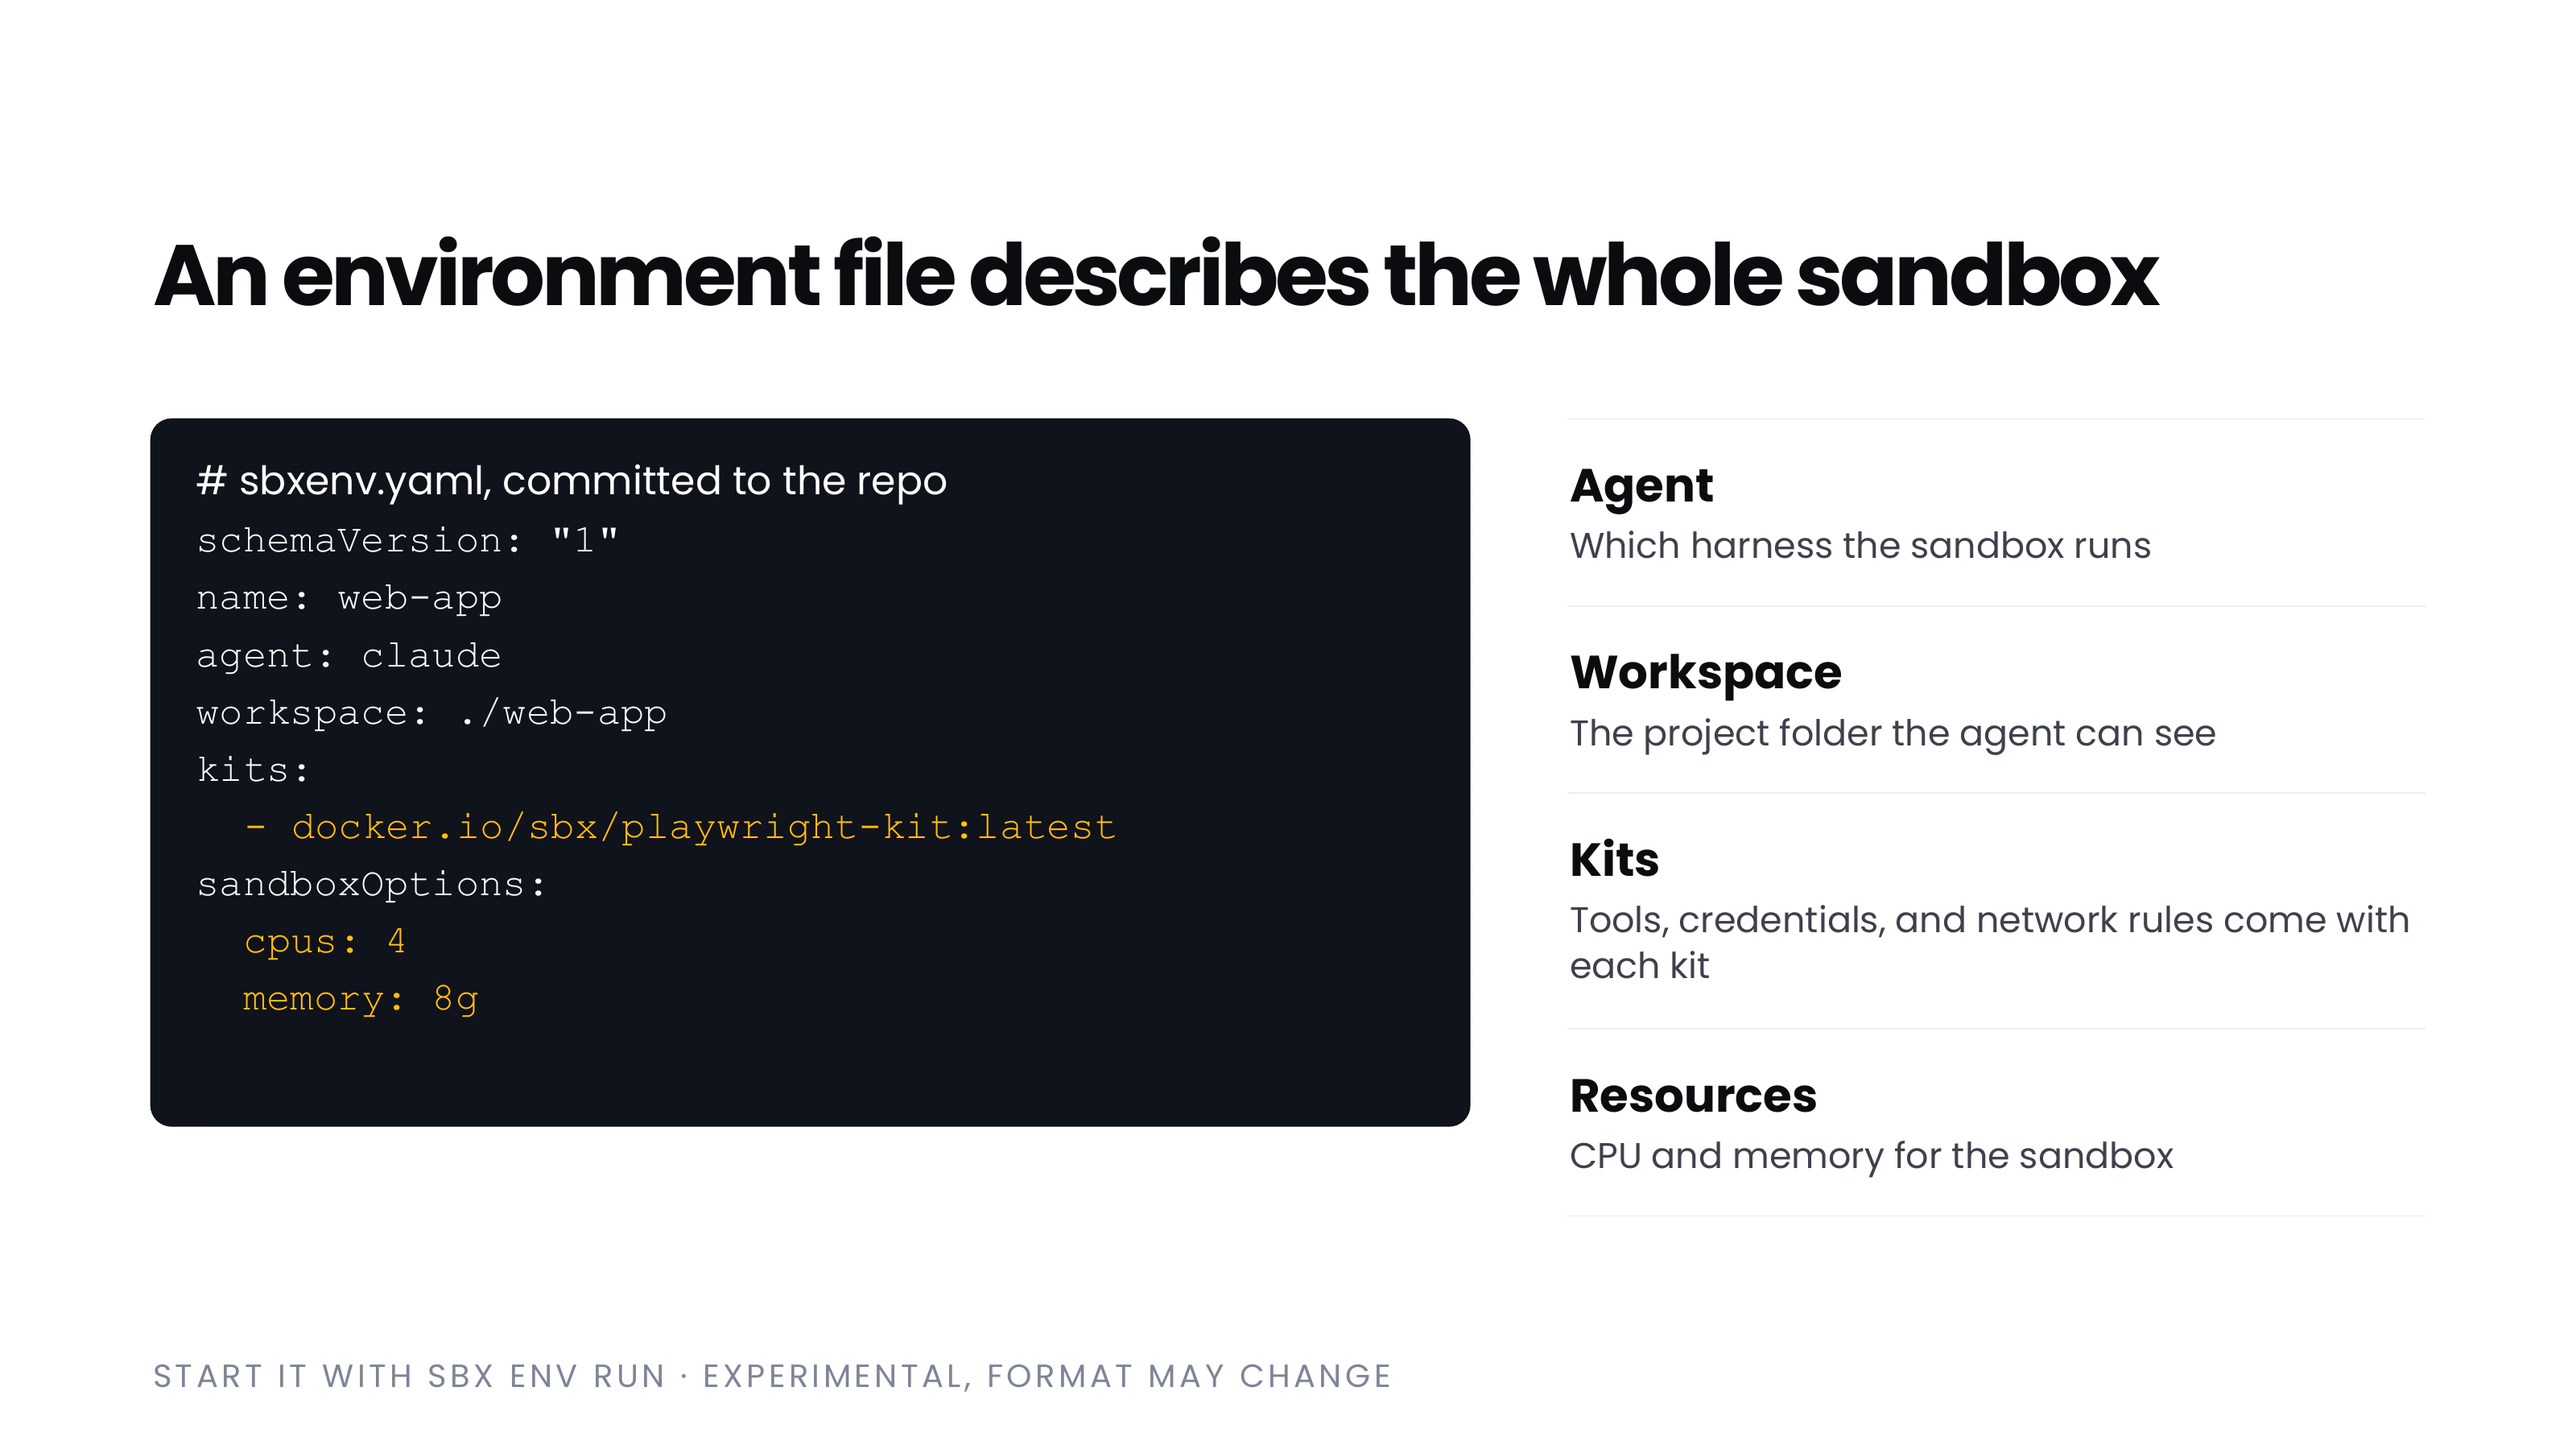
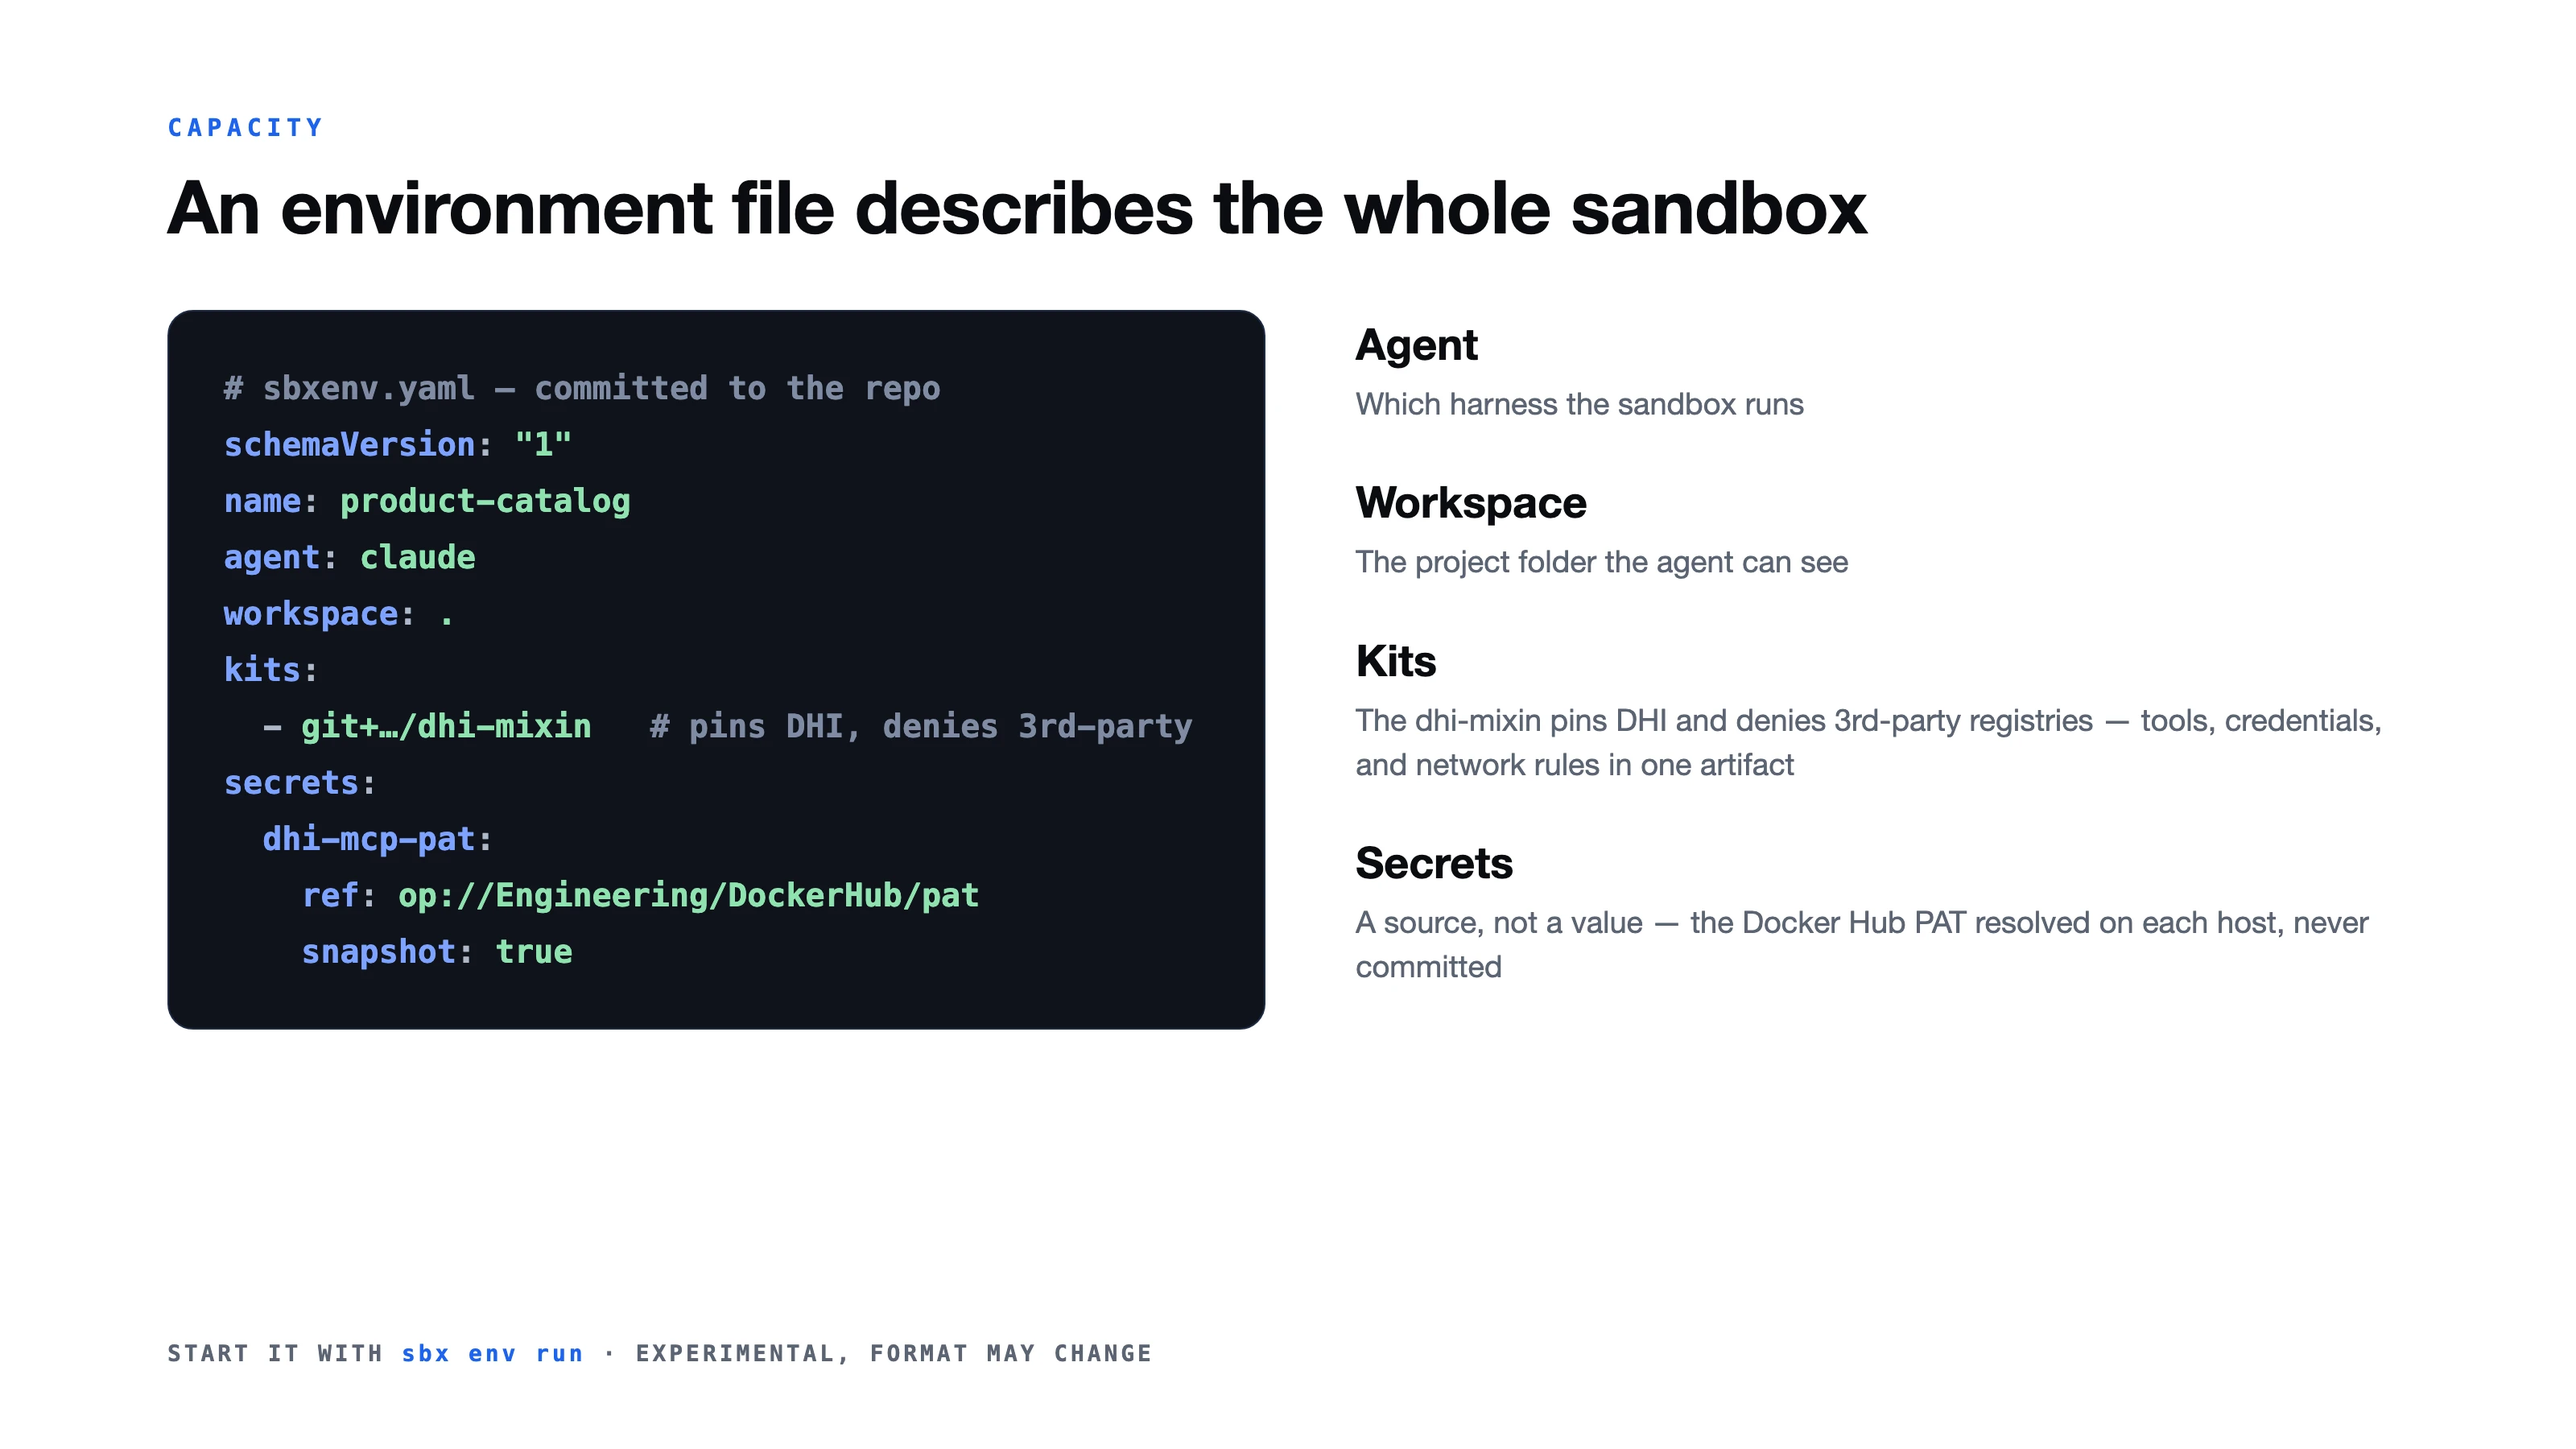
Deck slide 58: DHI sbxenv.yaml instead of the generic web-app example
The "An environment file describes the whole sandbox" slide showed a generic
web-app / playwright-kit sbxenv. Rebuild it to match the Capacity lab: the
product-catalog sandbox with the dhi-mixin kit and the dhi-mcp-pat secret. Same
visual style (white bg, dark code block, right-side annotations, same footer);
the 4th annotation is now Secrets instead of Resources. HTML source in _build/,
re-rendered to slide-58.webp (3200x1800).

Changed region(s): [[0.0312, 0.1244, 0.9375, 0.8089], [0.0625, 0.9333, 0.5312, 0.9644], [0.0625, 0.0622, 0.125, 0.0933]]

diff --git a/labs/securing-the-agentic-stack-slides/_build/sbxenv-dhi.html b/labs/securing-the-agentic-stack-slides/_build/sbxenv-dhi.html
@@ -1,0 +1,67 @@
+<!DOCTYPE html>
+<html>
+<head>
+<meta charset="utf-8">
+<style>
+  :root{
+    --blue:#1D63ED; --ink:#0b0c10; --muted:#5b6472; --body:#3d434e;
+    --code-bg:#0f131b; --code-border:#1e2a44;
+    --ckey:#7da2ff; --cval:#8fe3b0; --ccom:#7f8ba3; --cpun:#aeb8c9;
+    --sans:"Helvetica Neue",Inter,ui-sans-serif,system-ui,-apple-system,"Segoe UI",Roboto,Arial,sans-serif;
+    --mono:ui-monospace,SFMono-Regular,Menlo,Consolas,monospace;
+  }
+  *{box-sizing:border-box;margin:0;padding:0}
+  html,body{width:1600px;height:900px;background:#fff;font-family:var(--sans);color:var(--ink);overflow:hidden}
+  .stage{position:relative;width:1600px;height:900px;padding:72px 104px 0}
+  .eyebrow{font:800 15px/1 var(--mono);letter-spacing:.22em;color:var(--blue)}
+  h1{margin-top:16px;font-size:46px;font-weight:800;letter-spacing:-.01em;line-height:1.08;max-width:85%}
+
+  .row{display:flex;gap:56px;margin-top:40px;align-items:flex-start}
+
+  /* code block */
+  .code{width:49%;background:var(--code-bg);border:1px solid var(--code-border);border-radius:16px;
+        padding:30px 34px}
+  pre{margin:0;font:600 20px/1.75 var(--mono);color:var(--cpun);white-space:pre}
+  .k{color:var(--ckey)} .v{color:var(--cval)} .c{color:var(--ccom)}
+
+  /* annotations */
+  .anno{flex:1;padding-top:4px}
+  .ann{margin-bottom:30px}
+  .ann b{display:block;font-size:27px;font-weight:800;color:var(--ink)}
+  .ann span{display:block;margin-top:7px;font-size:19px;line-height:1.45;color:var(--muted)}
+
+  .foot{position:absolute;left:104px;right:104px;bottom:52px;
+        font:800 14px/1 var(--mono);letter-spacing:.14em;color:var(--muted)}
+  .foot b{color:var(--blue);font-weight:800}
+</style>
+</head>
+<body>
+<div class="stage">
+  <div class="eyebrow">CAPACITY</div>
+  <h1>An environment file describes the whole sandbox</h1>
+
+  <div class="row">
+    <div class="code"><pre><span class="c"># sbxenv.yaml — committed to the repo</span>
+<span class="k">schemaVersion</span>: <span class="v">"1"</span>
+<span class="k">name</span>: <span class="v">product-catalog</span>
+<span class="k">agent</span>: <span class="v">claude</span>
+<span class="k">workspace</span>: <span class="v">.</span>
+<span class="k">kits</span>:
+  - <span class="v">git+…/dhi-mixin</span>   <span class="c"># pins DHI, denies 3rd-party</span>
+<span class="k">secrets</span>:
+  <span class="k">dhi-mcp-pat</span>:
+    <span class="k">ref</span>: <span class="v">op://Engineering/DockerHub/pat</span>
+    <span class="k">snapshot</span>: <span class="v">true</span></pre></div>
+
+    <div class="anno">
+      <div class="ann"><b>Agent</b><span>Which harness the sandbox runs</span></div>
+      <div class="ann"><b>Workspace</b><span>The project folder the agent can see</span></div>
+      <div class="ann"><b>Kits</b><span>The dhi-mixin pins DHI and denies 3rd-party registries — tools, credentials, and network rules in one artifact</span></div>
+      <div class="ann"><b>Secrets</b><span>A source, not a value — the Docker Hub PAT resolved on each host, never committed</span></div>
+    </div>
+  </div>
+
+  <div class="foot">START IT WITH <b>sbx env run</b> &middot; EXPERIMENTAL, FORMAT MAY CHANGE</div>
+</div>
+</body>
+</html>
